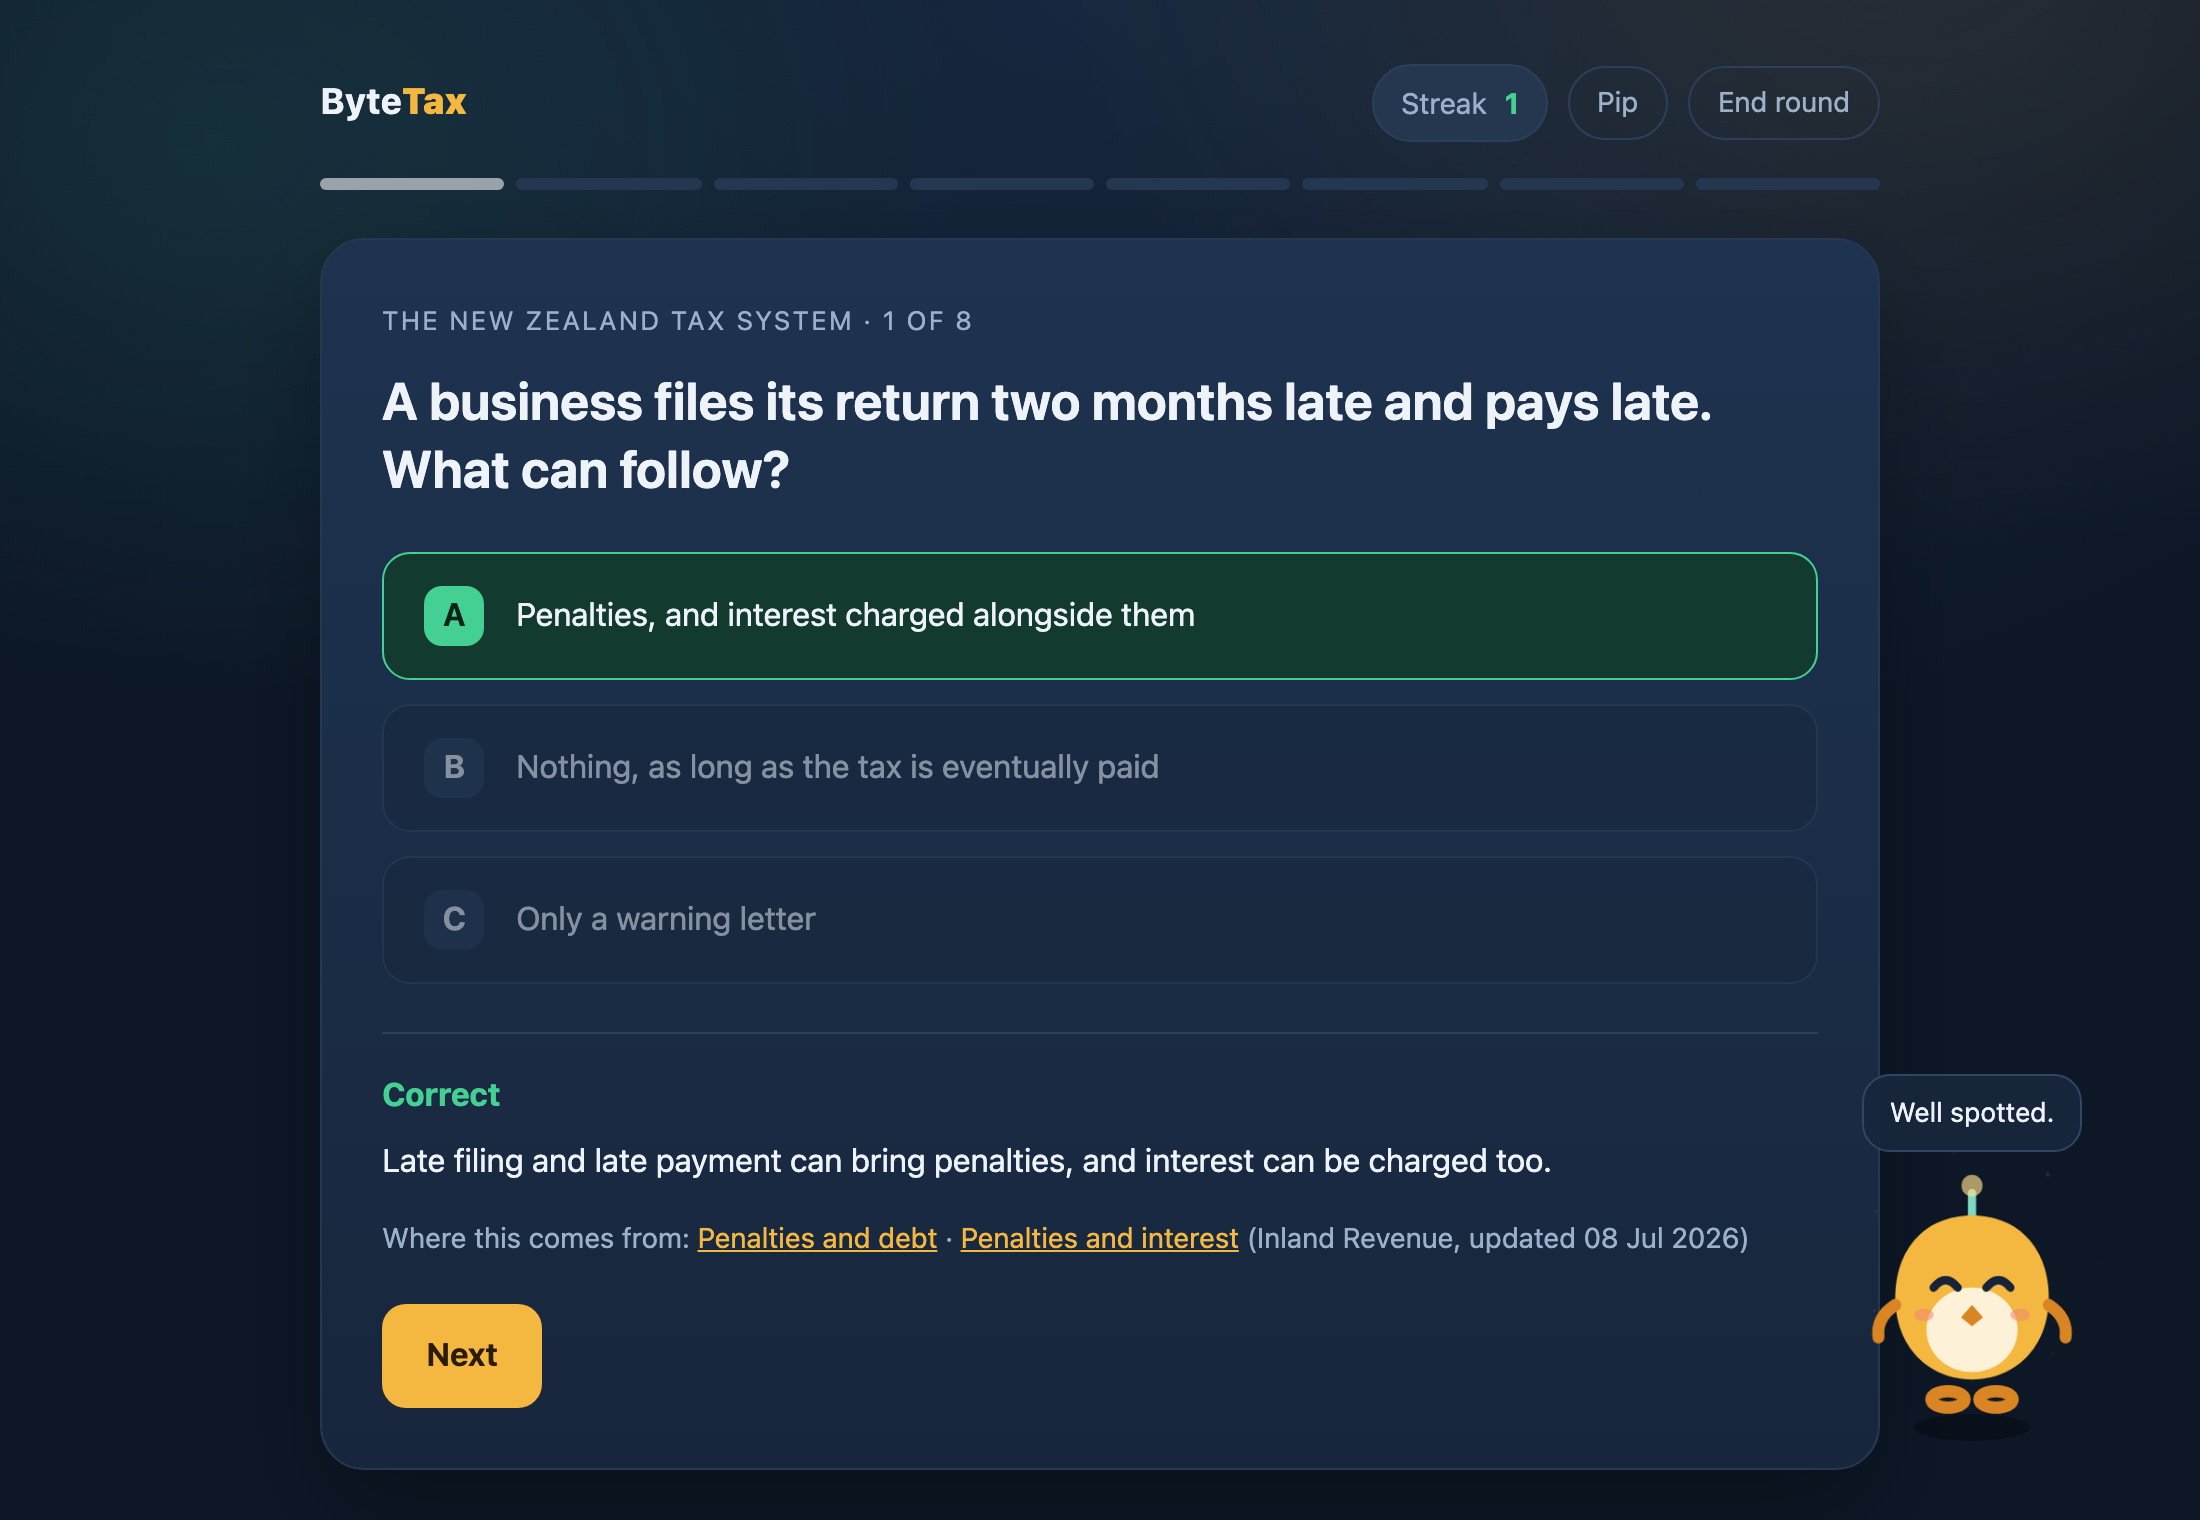
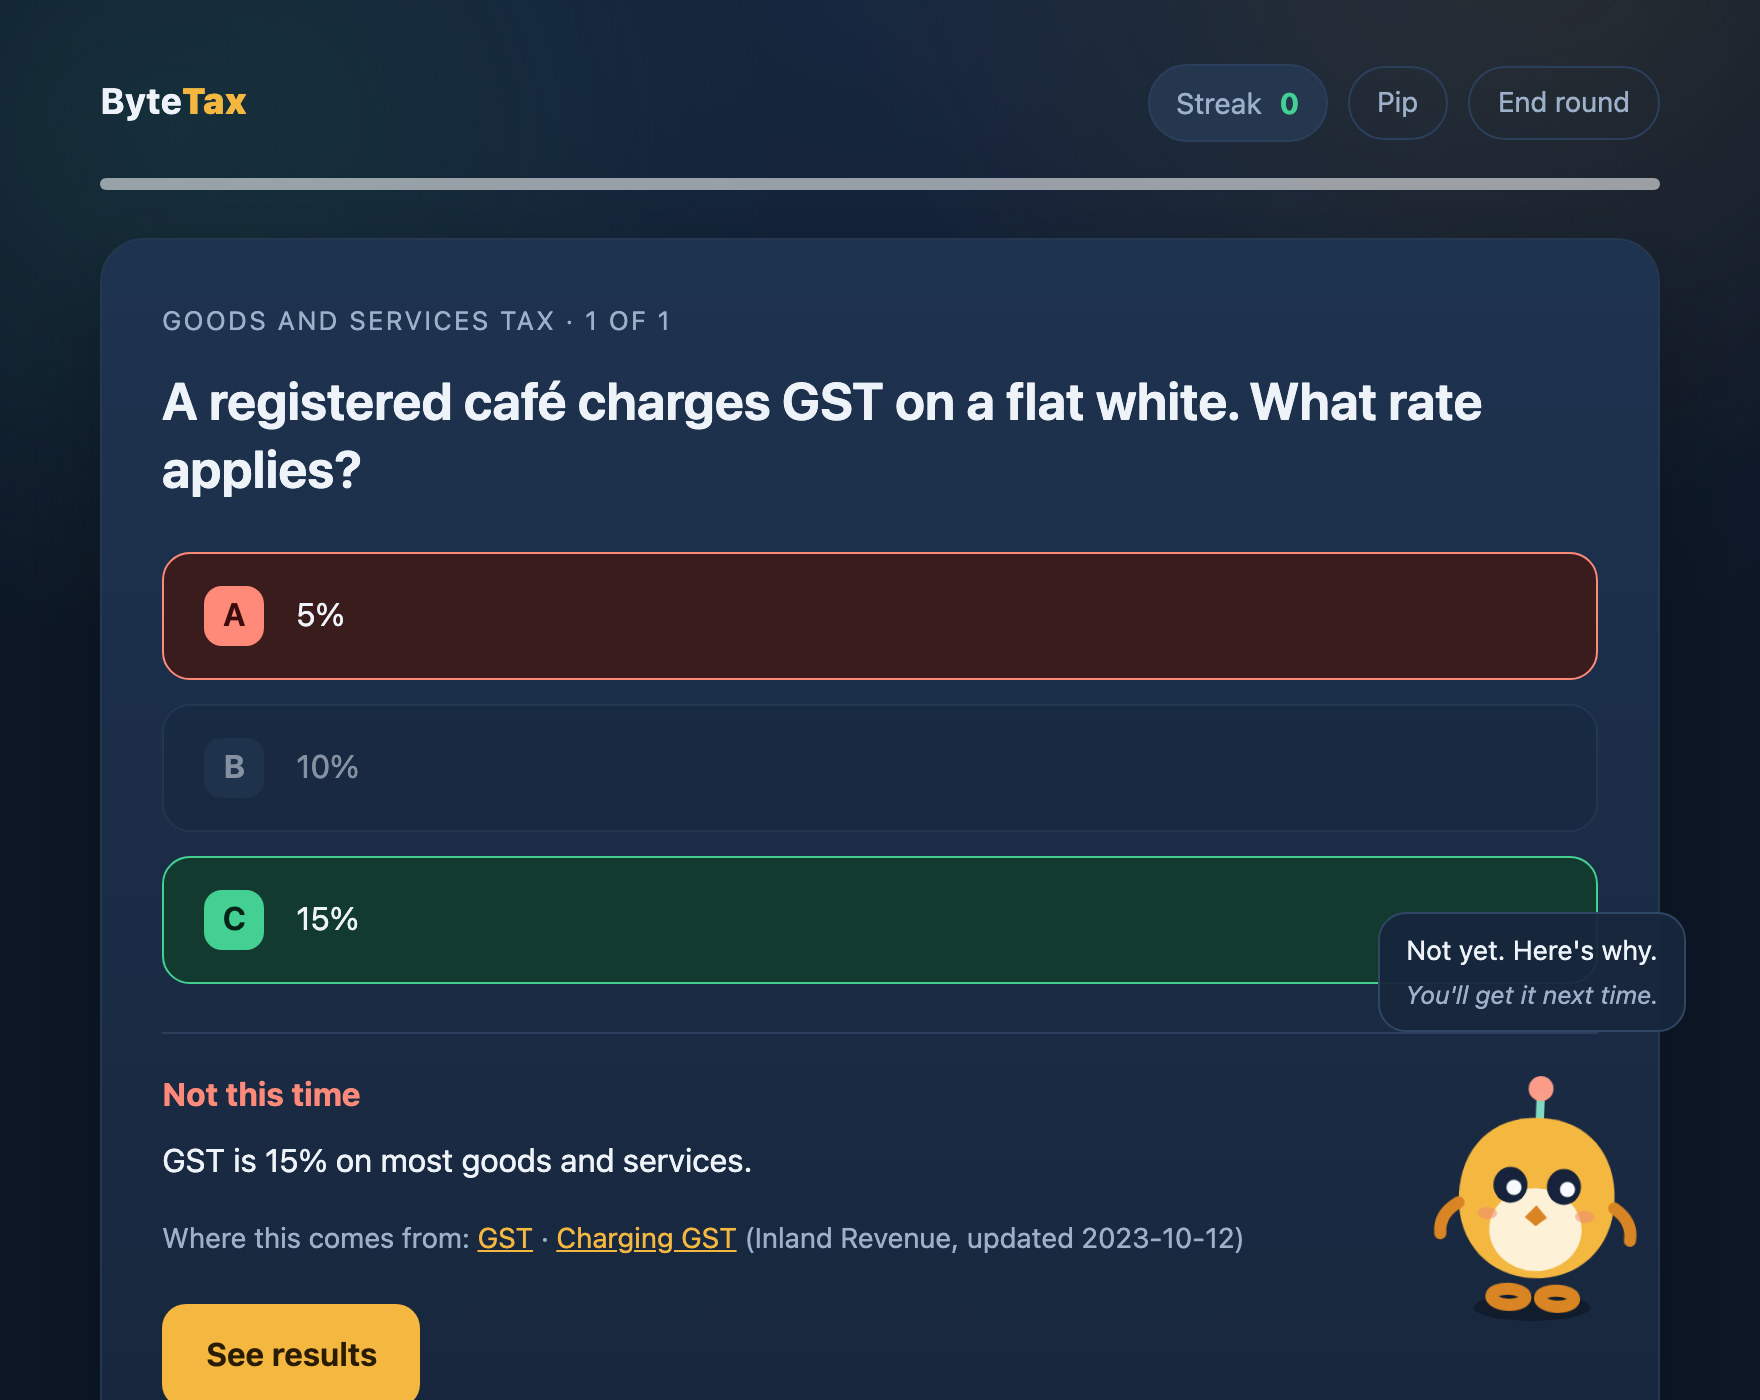
Show what ByteTax looks like, simplify its page, and feature ByteProof alongside

diff --git a/bytetax/index.html b/bytetax/index.html
@@ -4,12 +4,12 @@
     <meta charset="UTF-8">
     <link rel="icon" type="image/png" sizes="32x32" href="../assets/logo/favicon-32.png?v=2026">
     <meta name="viewport" content="width=device-width, initial-scale=1.0">
-    <title>ByteTax | A New Zealand tax learning game by ByteMind Ltd</title>
-    <meta name="description" content="A free short-session learning game for New Zealand tax, with every answer traced to Inland Revenue and checked by machine.">
+    <title>ByteTax | Free New Zealand tax learning game by ByteMind</title>
+    <meta name="description" content="A free learning game for New Zealand tax. Seven ways to practise, every answer traced to Inland Revenue and checked by machine.">
     <meta property="og:type" content="website">
     <meta property="og:site_name" content="ByteMind Ltd">
-    <meta property="og:title" content="ByteTax | A New Zealand tax learning game by ByteMind Ltd">
-    <meta property="og:description" content="A free short-session learning game for New Zealand tax, with every answer traced to Inland Revenue and checked by machine.">
+    <meta property="og:title" content="ByteTax | Free New Zealand tax learning game by ByteMind">
+    <meta property="og:description" content="A free learning game for New Zealand tax. Seven ways to practise, every answer traced to Inland Revenue and checked by machine.">
     <meta property="og:url" content="https://www.bytemind.co.nz/bytetax/">
     <link rel="canonical" href="https://www.bytemind.co.nz/bytetax/">
     <link rel="stylesheet" href="../colors_and_type.css">
@@ -22,6 +22,26 @@
       .bt-card h3 { margin: 0 0 8px; font-size: 1.05rem; }
       .bt-card p { margin: 0; color: var(--color-muted-foreground); }
       .bt-card { border-top: 3px solid var(--color-accent, #1f6f5c); }
+      /* Screenshots of the game, shown at a size that stays readable on a
+         laptop without dominating the page. */
+      .bt-gallery {
+        display: grid; gap: var(--space-8); grid-template-columns: 1fr;
+      }
+      @media (min-width: 760px) { .bt-gallery { grid-template-columns: repeat(2, 1fr); } }
+      .bt-shot { margin: 0; }
+      .bt-shot img {
+        width: 100%; height: auto; display: block; border-radius: var(--radius-lg);
+        border: 1px solid var(--color-border); box-shadow: 0 12px 30px rgba(0, 0, 0, .10);
+        background: #0d1726;
+      }
+      .bt-shot figcaption {
+        margin-top: 10px; font-size: .92rem; color: var(--color-muted-foreground);
+        line-height: 1.5;
+      }
+      .bt-shot figcaption strong {
+        display: block; color: var(--color-foreground, #1a1a1a); font-weight: 600;
+        margin-bottom: 2px;
+      }
     </style>
 </head>
 <body>
@@ -49,77 +69,91 @@
 
     <main id="main-content">
         <section class="page-hero animate-fade-in-up">
-            <div class="eyebrow">Free to play &middot; ByteMind Ltd</div>
+            <div class="eyebrow">Free &middot; ByteMind Ltd</div>
             <div class="accent-bar"></div>
-            <h1>Learn New Zealand tax one question at a time</h1>
-            <p class="hero-intro">ByteTax is a short-session learning game for New
-            Zealand tax. Seven ways to practise, from quick questions to flip cards and
-            drag-and-drop sorting. Every answer comes with a one-sentence reason and a
-            link to the Inland Revenue page it came from.</p>
+            <h1>Learn New Zealand tax, one question at a time</h1>
+            <p class="hero-intro">ByteTax is a short learning game. Pick a topic, answer a few
+            questions, and read why each answer is right. Every answer links to the page it came
+            from.</p>
             <div class="bt-ctas">
                 <a class="btn btn-primary" href="play/">Play ByteTax &rarr;</a>
                 <a class="btn btn-secondary" href="#how">How it works</a>
             </div>
-            <p class="bt-note">No account needed. Works offline. 200 questions
-            across 13 modules.</p>
+            <p class="bt-note">No account. Works offline. 200 questions across
+            13 topics.</p>
         </section>
 
         <section class="section" id="how">
             <div class="container">
                 <div class="section-header">
                     <div class="eyebrow">Before you trust it</div>
-                    <h2>Every answer shows its working</h2>
-                    <p>Tax changes. A learning tool that quietly teaches last year's rule
-                    is worse than no tool at all, so accuracy is the first design decision
-                    here, not a feature added later.</p>
+                    <h2>Every answer shows where it came from</h2>
+                    <p>Tax rules change. A game that quietly teaches an old rule is worse than no
+                    game at all. So accuracy came first here.</p>
                 </div>
                 <div class="grid-3">
                     <div class="card bt-card">
-                        <h3>Traced to the source</h3>
-                        <p>Each question rests on at least one Inland Revenue page, and
-                        the exact words that prove it are stored with it.</p>
+                        <h3>Every answer has a source</h3>
+                        <p>Each question rests on at least one Inland Revenue page. The exact
+                        words that prove it are stored with it.</p>
                     </div>
                     <div class="card bt-card">
-                        <h3>Checked by machine</h3>
-                        <p>A validator looks for those words in the page it cites. If the
-                        wording moves, the question fails and is held back until someone
-                        re-reads it.</p>
+                        <h3>A computer checks the words</h3>
+                        <p>If the page changes and the wording moves, the question fails and is
+                        held back until a person reads it again.</p>
                     </div>
                     <div class="card bt-card">
-                        <h3>Rates carry dates</h3>
-                        <p>A number is never stored bare. Rates keep the period they apply
-                        to, so a 2024 rate cannot be served as today's.</p>
+                        <h3>Numbers carry a date</h3>
+                        <p>A rate is never stored on its own. It keeps the years it applied to,
+                        so a 2024 rate cannot be served as today's.</p>
                     </div>
                     <div class="card bt-card">
-                        <h3>Backed by the statute</h3>
-                        <p>Key rules cite the Income Tax Act 2007, the GST Act 1985 or the
-                        Tax Administration Act 1994 alongside the Inland Revenue
-                        explanation.</p>
+                        <h3>Backed by the law</h3>
+                        <p>Key rules also cite the Income Tax Act 2007, the GST Act 1985 or the
+                        Tax Administration Act 1994.</p>
                     </div>
                     <div class="card bt-card">
-                        <h3>Plain about what it is</h3>
-                        <p>General information, not tax advice, and it says so on every
-                        screen. Inland Revenue remains the authority.</p>
+                        <h3>Clear about what it is</h3>
+                        <p>General information, not tax advice. It says so on every screen, and
+                        Inland Revenue stays the authority.</p>
                     </div>
                     <div class="card bt-card">
                         <h3>Nothing leaves your device</h3>
-                        <p>Progress is kept in your own browser, or on your own machine in
-                        the desktop app. No account, no tracking.</p>
+                        <p>Your progress is kept in your own browser. No account, no tracking,
+                        nothing sent anywhere.</p>
                     </div>
                 </div>
-                <p class="bt-note">Content checked against Inland Revenue on
-                21 September 2026. 120 facts from 60
-                sources behind 200 questions.</p>
+                <p class="bt-note">Checked against Inland Revenue on 21 September 2026.
+                120 facts from 60 sources behind
+                200 questions.</p>
             </div>
         </section>
 
-        <section class="section" style="background: var(--color-muted, #f6f5ef);" id="play">
+        <section class="section" style="background: var(--color-muted, #f6f5ef);" id="formats">
             <div class="container">
                 <div class="section-header">
                     <div class="eyebrow">Seven ways to practise</div>
                     <h2>Not a wall of multiple choice</h2>
-                    <p>A round deliberately mixes the formats, so a topic does not arrive
-                    in the same clothes twice.</p>
+                    <p>A round mixes the formats, so a topic does not come back looking the same
+                    twice. Here is what four of them look like.</p>
+                </div>
+                <div class="bt-gallery">
+                    <figure class="bt-shot">
+                        <img src="../assets/bytetax/format-quiz.png" alt="Quick quiz: Pick an answer. You get a one-line reason and a link to the source." loading="lazy" width="880" height="820">
+                        <figcaption><strong>Quick quiz</strong>Pick an answer. You get a one-line reason and a link to the source.</figcaption>
+                    </figure>
+                    <figure class="bt-shot">
+                        <img src="../assets/bytetax/format-card.png" alt="Flip cards: Tap the card to turn it over, then say whether you knew it." loading="lazy" width="880" height="820">
+                        <figcaption><strong>Flip cards</strong>Tap the card to turn it over, then say whether you knew it.</figcaption>
+                    </figure>
+                    <figure class="bt-shot">
+                        <img src="../assets/bytetax/format-match.png" alt="Matching: Drag a card into its slot. Each one is numbered, so you can see what went where." loading="lazy" width="880" height="820">
+                        <figcaption><strong>Matching</strong>Drag a card into its slot. Each one is numbered, so you can see what went where.</figcaption>
+                    </figure>
+                    <figure class="bt-shot">
+                        <img src="../assets/bytetax/format-sort.png" alt="Sorting: Drag each card into the group it belongs to." loading="lazy" width="880" height="820">
+                        <figcaption><strong>Sorting</strong>Drag each card into the group it belongs to.</figcaption>
+                    </figure>
                 </div>
                 <div class="bt-format">
                     <span>Quick quiz</span>
@@ -130,9 +164,9 @@
                     <span>Sorting</span>
                     <span>Ordering</span>
                 </div>
-                <p class="bt-note">Thirteen modules follow the ACCT 862 schedule, from the
-                tax system and residency through to international tax and what changed
-                this year.</p>
+                <p class="bt-note">13 topics follow the ACCT 862 schedule, from
+                the tax system and residency through to international tax and what changed this
+                year.</p>
                 <div class="bt-ctas" style="justify-content: flex-start;">
                     <a class="btn btn-primary" href="play/">Start a round &rarr;</a>
                 </div>
@@ -143,15 +177,14 @@
             <div class="container">
                 <div class="section-header">
                     <div class="eyebrow">Who it is for</div>
-                    <h2>Students, and anyone who needs a refresher</h2>
-                    <p>Written for accountancy and taxation students working through the
-                    New Zealand tax curriculum, and useful to anyone who wants to check
-                    what they actually know before it matters.</p>
+                    <h2>Students, and anyone who wants a refresher</h2>
+                    <p>Made for accountancy and taxation students working through the New Zealand
+                    tax curriculum. Useful to anyone who wants to check what they know before it
+                    matters.</p>
                 </div>
-                <p class="bt-note">ByteTax is general information about New Zealand tax.
-                It is not tax advice, and it does not calculate anyone's liability.
-                Inland Revenue is the authority for every rule it covers. Built by
-                ByteMind Ltd. Version 0.1.0.</p>
+                <p class="bt-note">ByteTax is general information about New Zealand tax. It is
+                not tax advice, and it does not work out anyone's tax bill. Inland Revenue is the
+                authority for every rule it covers. Built by ByteMind Ltd. Version 0.1.0.</p>
             </div>
         </section>
     </main>

diff --git a/index.html b/index.html
@@ -236,13 +236,22 @@
                 </a>
             </div>
 
-            <div class="product-strip">
-                <div class="product-strip-item">
-                    <div>
-                        <h3>ByteProof</h3>
-                        <p>A desktop proofreading app for macOS and Windows. Returns tracked changes in Word, and polishes text anywhere else.</p>
+            <div class="product-feature reverse">
+                <a class="product-feature-shot" href="byteproof.html">
+                    <img src="assets/byteproof/byteproof-app-main.png" alt="ByteProof showing proposed proofreading changes as tracked edits inside Microsoft Word" loading="lazy" width="1968" height="1400">
+                </a>
+                <div class="product-feature-copy">
+                    <span class="product-tag">Desktop app &middot; macOS and Windows</span>
+                    <h3>ByteProof</h3>
+                    <p class="product-lede">A proofreading app for anything you write. In Word it hands back tracked changes and comments, so you stay in control of every edit.</p>
+                    <ul class="product-points">
+                        <li>Tracked changes and comments in Microsoft Word</li>
+                        <li>Polishes your selection in any other app, from one shortcut</li>
+                        <li>Use the built-in local AI, or a model you already pay for</li>
+                    </ul>
+                    <div class="product-actions">
+                        <a href="byteproof.html" class="btn btn-primary" data-dom-id="cta-byteproof">See ByteProof &rarr;</a>
                     </div>
-                    <a href="byteproof.html" class="inline-link">See ByteProof &rarr;</a>
                 </div>
             </div>
         </section>

diff --git a/colors_and_type.css b/colors_and_type.css
@@ -327,6 +327,9 @@ p { margin-bottom: 1.25rem; color: var(--color-text-secondary); line-height: 1.6
   transition: transform 0.3s ease;
 }
 .product-feature-shot:hover img { transform: translateY(-3px); }
+/* Two product rows read better when the pictures alternate sides. */
+.product-feature.reverse .product-feature-shot { order: -1; }
+.product-feature + .product-feature { margin-top: var(--space-12); }
 .product-strip { border-top: 1px solid var(--color-border); padding-top: var(--space-8); }
 .product-strip-item { display: flex; flex-wrap: wrap; gap: var(--space-6); align-items: center; justify-content: space-between; }
 .product-strip-item h3 { font-family: var(--font-serif); font-size: 1.3rem; margin: 0 0 4px 0; }
